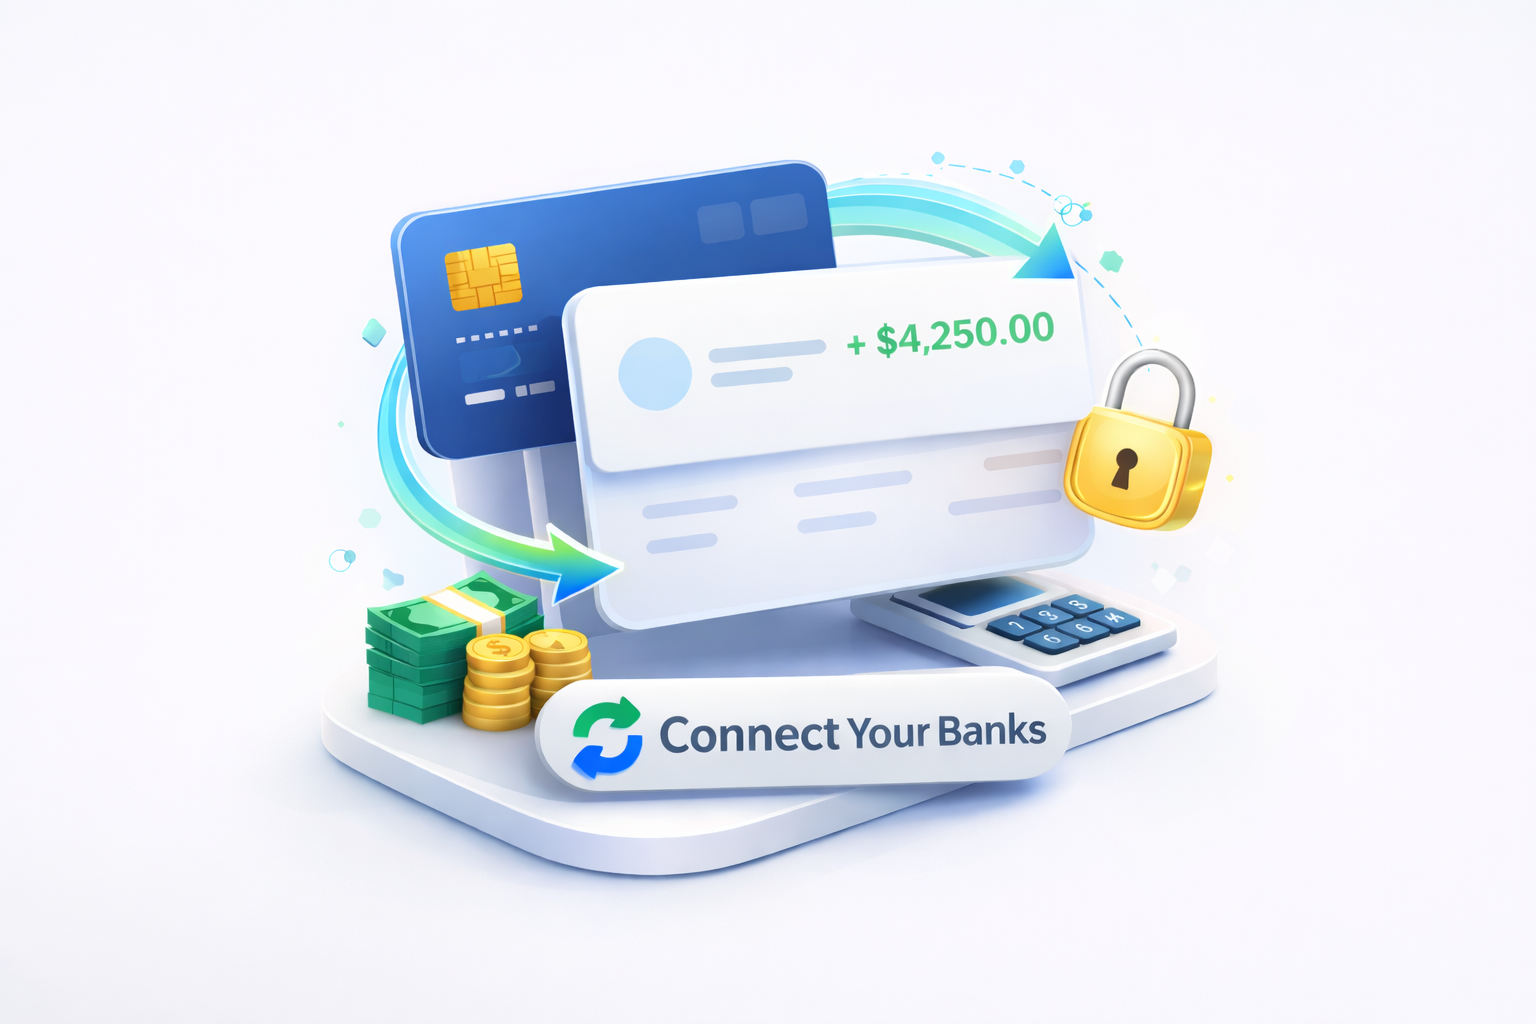
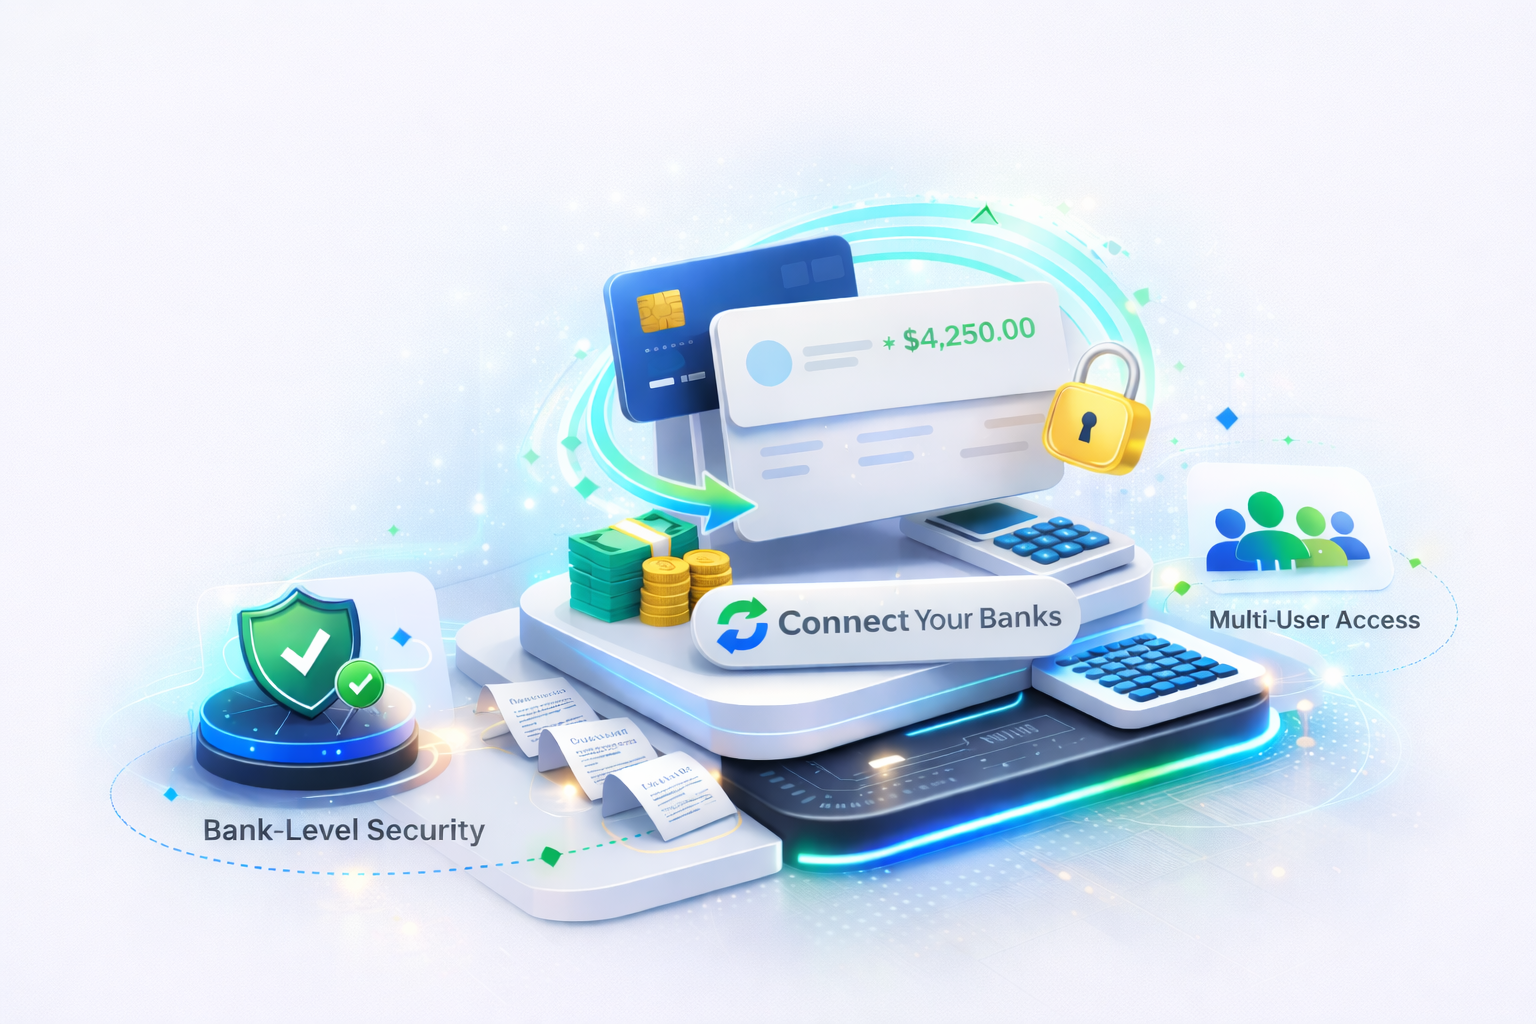
feat: replace About section placeholder with fintech infographic image
- Add about-fintech.png to src/assets/
- Update About.jsx to import and display the fintech image replacing blue shape placeholders
- Update About.css with about-main-img styles (fill, drop-shadow, float animation)
- Multi-page routing maintained with all sections on home route
- Re-implemented BrowserRouter with 6 routes (Home, About, Services, Features, Pricing, Contact)

diff --git a/src/pages/ContactPage.jsx b/src/pages/ContactPage.jsx
@@ -2,37 +2,33 @@ import React from 'react';
 import Layout from '../components/Layout';
 import FAQ from '../components/FAQ';
 
-const ContactPage = () => {
-    return (
-        <Layout>
-            <section style={{ padding: '8rem 2rem 4rem', maxWidth: '800px', margin: '0 auto', textAlign: 'center' }}>
-                <h1 style={{ fontSize: '2.8rem', fontWeight: 800, color: '#0f172a', marginBottom: '1rem' }}>
-                    Contact Us
-                </h1>
-                <p style={{ fontSize: '1.1rem', color: '#475569', marginBottom: '3rem', lineHeight: 1.7 }}>
-                    Have a question or want to schedule a demo? Reach out to us and we'll get back to you shortly.
-                </p>
-                <form style={{ display: 'flex', flexDirection: 'column', gap: '1.25rem', textAlign: 'left' }}>
-                    <div>
-                        <label style={{ fontSize: '0.9rem', fontWeight: 600, color: '#334155', marginBottom: '0.4rem', display: 'block' }}>Full Name</label>
-                        <input type="text" placeholder="John Doe" style={{ width: '100%', padding: '0.8rem 1rem', border: '1.5px solid #e2e8f0', borderRadius: '10px', fontSize: '1rem', outline: 'none', boxSizing: 'border-box' }} />
-                    </div>
-                    <div>
-                        <label style={{ fontSize: '0.9rem', fontWeight: 600, color: '#334155', marginBottom: '0.4rem', display: 'block' }}>Email Address</label>
-                        <input type="email" placeholder="john@example.com" style={{ width: '100%', padding: '0.8rem 1rem', border: '1.5px solid #e2e8f0', borderRadius: '10px', fontSize: '1rem', outline: 'none', boxSizing: 'border-box' }} />
-                    </div>
-                    <div>
-                        <label style={{ fontSize: '0.9rem', fontWeight: 600, color: '#334155', marginBottom: '0.4rem', display: 'block' }}>Message</label>
-                        <textarea rows={5} placeholder="Tell us how we can help..." style={{ width: '100%', padding: '0.8rem 1rem', border: '1.5px solid #e2e8f0', borderRadius: '10px', fontSize: '1rem', outline: 'none', resize: 'vertical', boxSizing: 'border-box' }} />
-                    </div>
-                    <button type="submit" style={{ background: 'linear-gradient(135deg, #6366f1, #8b5cf6)', color: 'white', border: 'none', borderRadius: '10px', padding: '0.9rem 2rem', fontSize: '1rem', fontWeight: 700, cursor: 'pointer' }}>
-                        Send Message →
-                    </button>
-                </form>
-            </section>
-            <FAQ />
-        </Layout>
-    );
-};
+const ContactPage = () => (
+    <Layout>
+        <section style={{ padding: '8rem 2rem 4rem', maxWidth: '800px', margin: '0 auto', textAlign: 'center' }}>
+            <h1 style={{ fontSize: '2.8rem', fontWeight: 800, color: '#0f172a', marginBottom: '1rem' }}>Contact Us</h1>
+            <p style={{ fontSize: '1.1rem', color: '#475569', marginBottom: '3rem', lineHeight: 1.7 }}>
+                Have a question or want to schedule a demo? Reach out and we'll get back to you shortly.
+            </p>
+            <form style={{ display: 'flex', flexDirection: 'column', gap: '1.25rem', textAlign: 'left' }}>
+                <div>
+                    <label style={{ fontSize: '0.9rem', fontWeight: 600, color: '#334155', marginBottom: '0.4rem', display: 'block' }}>Full Name</label>
+                    <input type="text" placeholder="John Doe" style={{ width: '100%', padding: '0.8rem 1rem', border: '1.5px solid #e2e8f0', borderRadius: '10px', fontSize: '1rem', outline: 'none', boxSizing: 'border-box' }} />
+                </div>
+                <div>
+                    <label style={{ fontSize: '0.9rem', fontWeight: 600, color: '#334155', marginBottom: '0.4rem', display: 'block' }}>Email Address</label>
+                    <input type="email" placeholder="john@example.com" style={{ width: '100%', padding: '0.8rem 1rem', border: '1.5px solid #e2e8f0', borderRadius: '10px', fontSize: '1rem', outline: 'none', boxSizing: 'border-box' }} />
+                </div>
+                <div>
+                    <label style={{ fontSize: '0.9rem', fontWeight: 600, color: '#334155', marginBottom: '0.4rem', display: 'block' }}>Message</label>
+                    <textarea rows={5} placeholder="Tell us how we can help..." style={{ width: '100%', padding: '0.8rem 1rem', border: '1.5px solid #e2e8f0', borderRadius: '10px', fontSize: '1rem', outline: 'none', resize: 'vertical', boxSizing: 'border-box' }} />
+                </div>
+                <button type="submit" style={{ background: 'linear-gradient(135deg, #6366f1, #8b5cf6)', color: 'white', border: 'none', borderRadius: '10px', padding: '0.9rem 2rem', fontSize: '1rem', fontWeight: 700, cursor: 'pointer' }}>
+                    Send Message →
+                </button>
+            </form>
+        </section>
+        <FAQ />
+    </Layout>
+);
 
 export default ContactPage;

diff --git a/src/pages/HomePage.jsx b/src/pages/HomePage.jsx
@@ -2,18 +2,30 @@ import React from 'react';
 import Layout from '../components/Layout';
 import Hero from '../components/Hero';
 import DashboardPreview from '../components/DashboardPreview';
+import About from '../components/About';
+import Services from '../components/Services';
+import Features from '../components/Features';
 import FullPageSlider from '../components/FullPageSlider';
 import WhyChooseUs from '../components/why-choose-us/WhyChooseUs';
+import Pricing from '../components/pricing/Pricing';
+import TailoredSolutions from '../components/tailored-solutions/TailoredSolutions';
 import Integrations from '../components/integrations/Integrations';
+import FAQ from '../components/FAQ';
 
 const HomePage = () => {
     return (
         <Layout>
             <Hero />
             <DashboardPreview />
+            <About />
+            <Services />
+            <Features />
             <FullPageSlider />
             <WhyChooseUs />
+            <Pricing />
+            <TailoredSolutions />
             <Integrations />
+            <FAQ />
         </Layout>
     );
 };

diff --git a/src/components/About.jsx b/src/components/About.jsx
@@ -1,5 +1,6 @@
 import React from 'react';
 import './About.css';
+import aboutImg from '../assets/about-fintech.png';
 
 const About = () => {
     return (
@@ -38,9 +39,11 @@ const About = () => {
                     {/* Right Visual Side */}
                     <div className="about-visual">
                         <div className="about-image-wrapper">
-                            {/* Abstract decorative aesthetic common in Enterprise Software */}
-                            <div className="creative-shape shape-1"></div>
-                            <div className="creative-shape shape-2"></div>
+                            <img
+                                src={aboutImg}
+                                alt="Bineera Tallyx Fintech Platform"
+                                className="about-main-img"
+                            />
 
                             <div className="about-feature-box top-box">
                                 <div className="box-icon">

diff --git a/src/components/About.css b/src/components/About.css
@@ -97,31 +97,15 @@
     height: 100%;
 }
 
-.creative-shape {
+.about-main-img {
     position: absolute;
-    border-radius: 32px;
-}
-
-.shape-1 {
-    width: 75%;
-    height: 80%;
-    background: linear-gradient(135deg, #eff6ff 0%, #dbecfe 100%);
-    top: 10%;
-    right: 5%;
+    width: 100%;
+    height: 100%;
+    object-fit: contain;
+    border-radius: 24px;
+    filter: drop-shadow(0 20px 48px rgba(0, 85, 255, 0.12));
+    animation: float 6s ease-in-out infinite;
     z-index: 1;
-    transform: rotate(3deg);
-    border: 1px solid #bfdbfe;
-}
-
-.shape-2 {
-    width: 65%;
-    height: 70%;
-    background: #0055ff;
-    bottom: 5%;
-    left: 5%;
-    z-index: 2;
-    transform: rotate(-3deg);
-    box-shadow: 0 25px 50px -12px rgba(0, 85, 255, 0.4);
 }
 
 /* Floating info boxes */

diff --git a/src/components/Navbar.jsx b/src/components/Navbar.jsx
@@ -8,9 +8,7 @@ const Navbar = () => {
     const location = useLocation();
 
     useEffect(() => {
-        const handleScroll = () => {
-            setIsScrolled(window.scrollY > 20);
-        };
+        const handleScroll = () => setIsScrolled(window.scrollY > 20);
         window.addEventListener('scroll', handleScroll);
         return () => window.removeEventListener('scroll', handleScroll);
     }, []);
@@ -26,7 +24,6 @@ const Navbar = () => {
 
     return (
         <nav className={`navbar ${isScrolled ? 'scrolled' : ''}`}>
-            {/* Top Gradient Bar */}
             <div className="top-gradient-bar">
                 Powered by AI, Ringless Voicemails &amp; Marketing That Converts
             </div>

diff --git a/src/pages/ServicesPage.jsx b/src/pages/ServicesPage.jsx
@@ -3,13 +3,8 @@ import Layout from '../components/Layout';
 import Services from '../components/Services';
 import TailoredSolutions from '../components/tailored-solutions/TailoredSolutions';
 
-const ServicesPage = () => {
-    return (
-        <Layout>
-            <Services />
-            <TailoredSolutions />
-        </Layout>
-    );
-};
+const ServicesPage = () => (
+    <Layout><Services /><TailoredSolutions /></Layout>
+);
 
 export default ServicesPage;

diff --git a/src/pages/PricingPage.jsx b/src/pages/PricingPage.jsx
@@ -2,12 +2,8 @@ import React from 'react';
 import Layout from '../components/Layout';
 import Pricing from '../components/pricing/Pricing';
 
-const PricingPage = () => {
-    return (
-        <Layout>
-            <Pricing />
-        </Layout>
-    );
-};
+const PricingPage = () => (
+    <Layout><Pricing /></Layout>
+);
 
 export default PricingPage;

diff --git a/src/pages/FeaturesPage.jsx b/src/pages/FeaturesPage.jsx
@@ -2,12 +2,8 @@ import React from 'react';
 import Layout from '../components/Layout';
 import Features from '../components/Features';
 
-const FeaturesPage = () => {
-    return (
-        <Layout>
-            <Features />
-        </Layout>
-    );
-};
+const FeaturesPage = () => (
+    <Layout><Features /></Layout>
+);
 
 export default FeaturesPage;

diff --git a/src/pages/AboutPage.jsx b/src/pages/AboutPage.jsx
@@ -2,12 +2,8 @@ import React from 'react';
 import Layout from '../components/Layout';
 import About from '../components/About';
 
-const AboutPage = () => {
-    return (
-        <Layout>
-            <About />
-        </Layout>
-    );
-};
+const AboutPage = () => (
+    <Layout><About /></Layout>
+);
 
 export default AboutPage;
